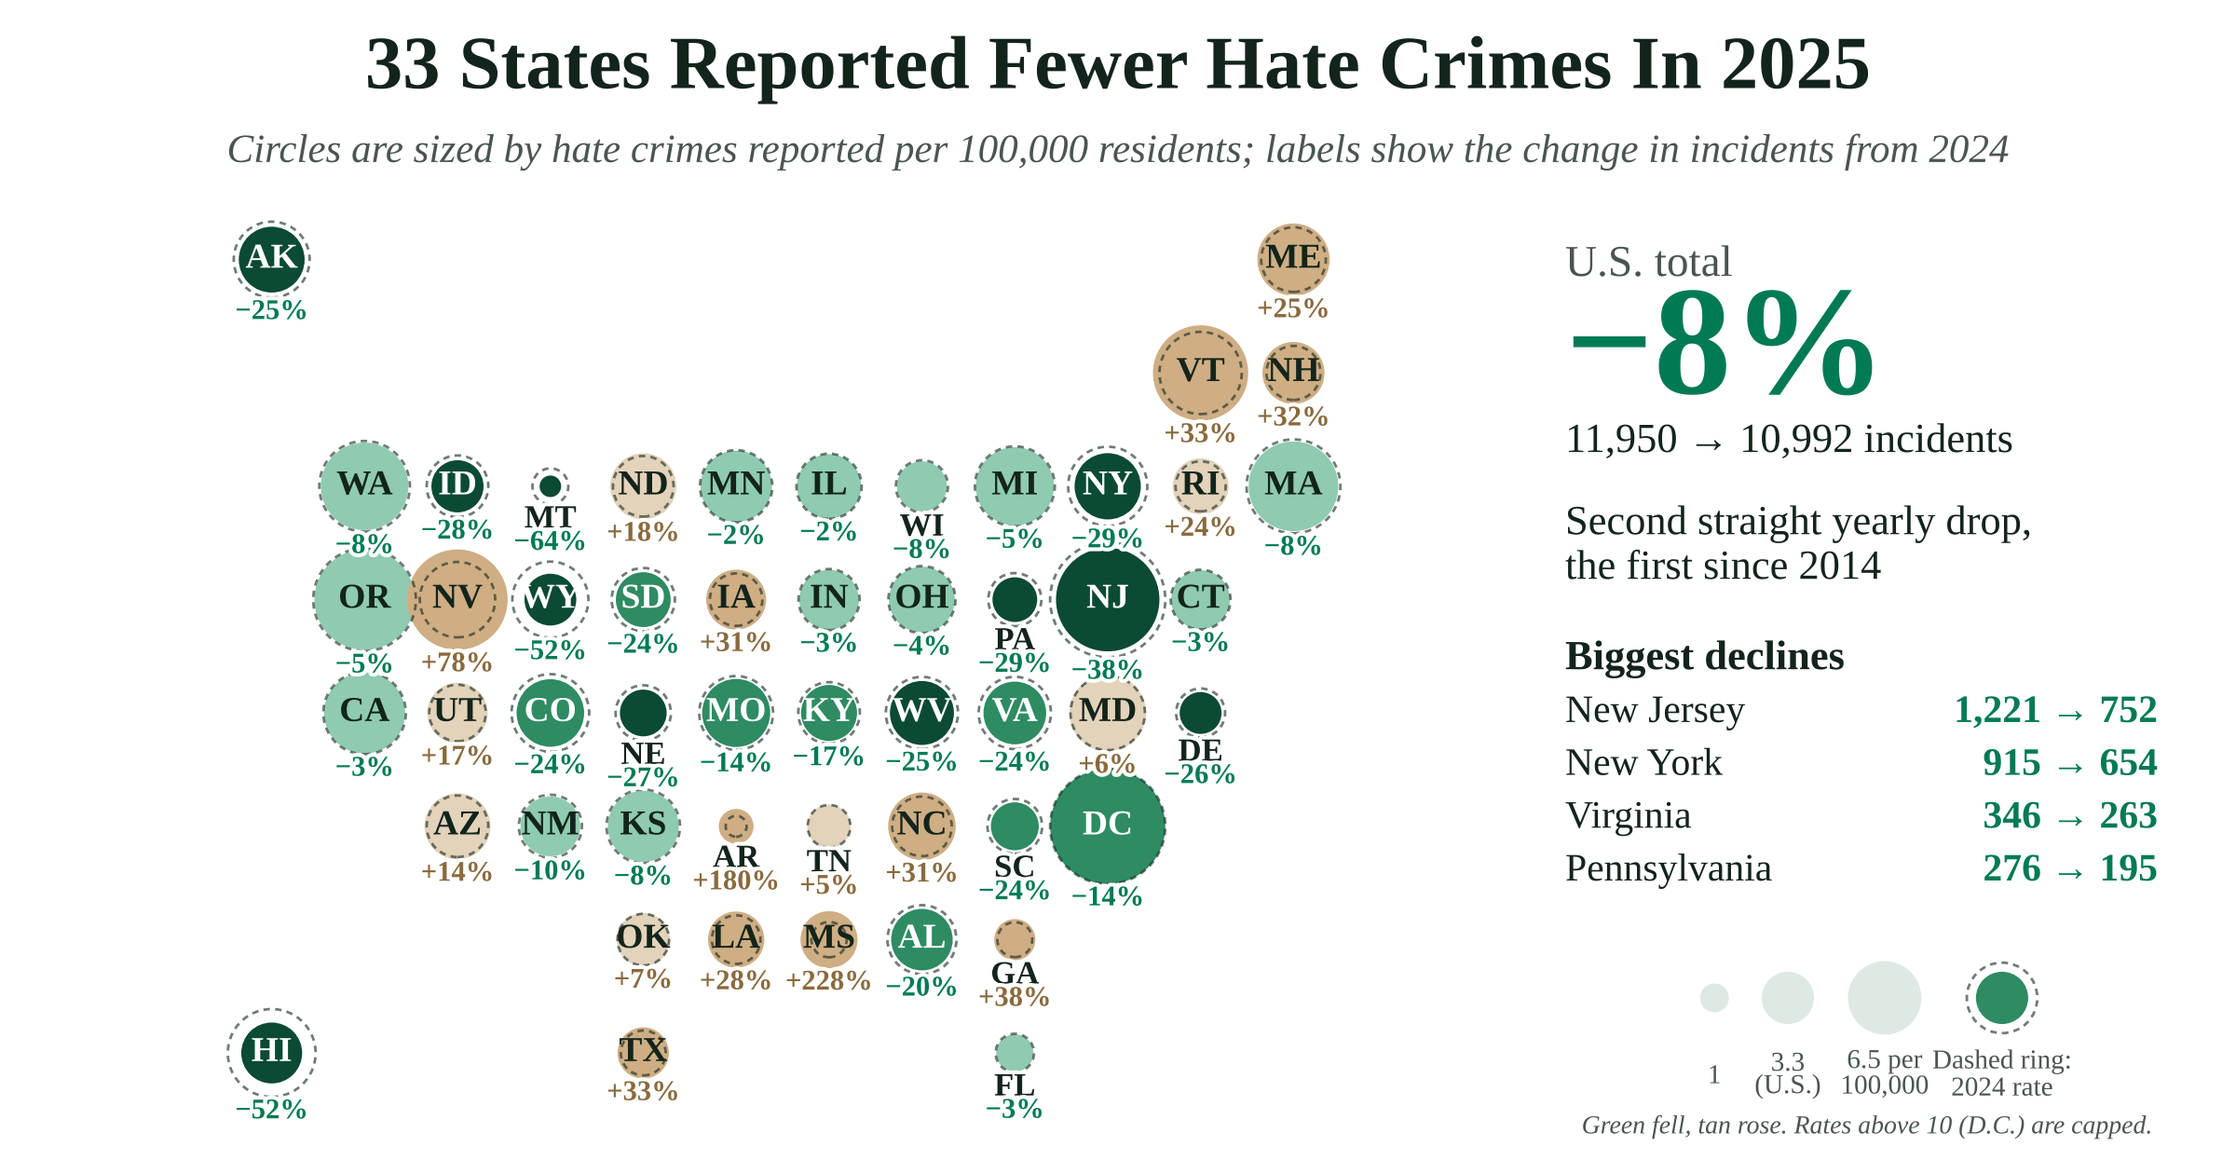
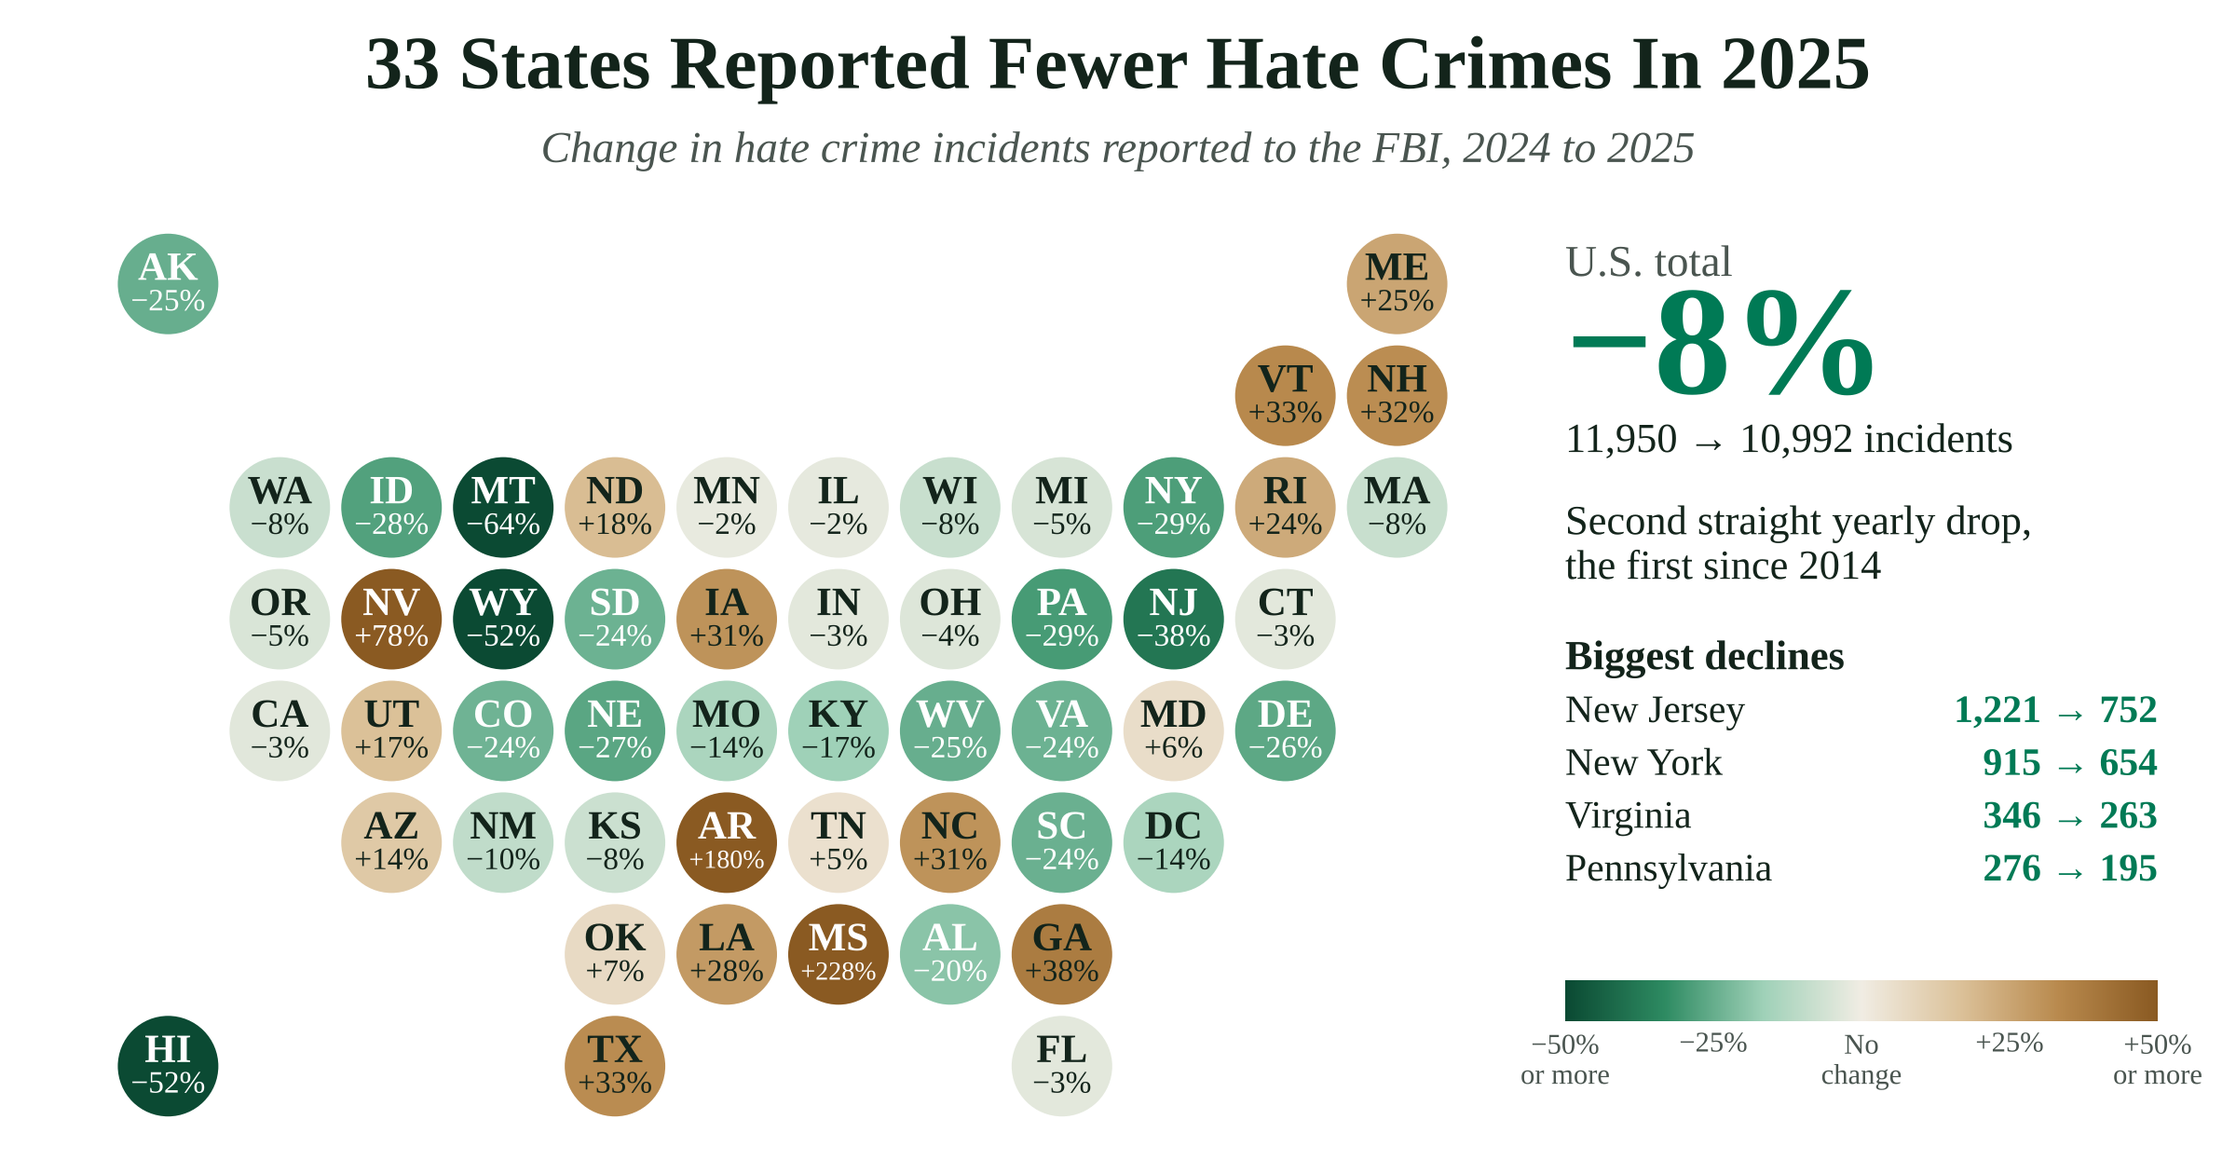
Hate map: uniform circles on one diverging color scale; tall article lead
Claude-Session: https://claude.ai/code/session_014ps2HoqtiaDX9KtWWc6m6n

diff --git a/hate/embed.js b/hate/embed.js
@@ -14,31 +14,29 @@ var css='#nid-hate-map{max-width:680px;margin:2.2em auto;font-family:Georgia,"Ti
 '#nid-hate-map .tg button{font:inherit;font-size:13px;padding:6px 14px;border-radius:999px;border:1px solid #cfd9d3;background:#fff;color:'+INK+';cursor:pointer}'+
 '#nid-hate-map .tg button.on{background:'+G+';border-color:'+G+';color:#fff}'+
 '#nid-hate-map svg{width:100%;height:auto;display:block;overflow:visible}'+
-'#nid-hate-map .s{cursor:pointer}#nid-hate-map .s .d{transition:r .9s cubic-bezier(.3,1.4,.5,1),fill .5s}'+
-'#nid-hate-map .s .rg{fill:none;stroke:'+INK+';stroke-opacity:.5;stroke-width:.012;stroke-dasharray:.035 .03}'+
-'#nid-hate-map .s.sel .rg,#nid-hate-map .s:hover .rg{stroke-opacity:1;stroke-width:.03;stroke-dasharray:none}'+
+'#nid-hate-map .s{cursor:pointer}#nid-hate-map .s .d{transition:fill 1s}'+
+'#nid-hate-map .s .rg{fill:none;stroke:'+INK+';stroke-opacity:0;stroke-width:.035}'+
+'#nid-hate-map .s.sel .rg,#nid-hate-map .s:hover .rg{stroke-opacity:1}'+
 '#nid-hate-map .s text{font-family:-apple-system,"Helvetica Neue",Arial,sans-serif;text-anchor:middle;pointer-events:none;letter-spacing:0!important;word-spacing:0!important}'+
-'#nid-hate-map .s .ab{font-size:.26px;font-weight:700;paint-order:stroke;stroke-linejoin:round}#nid-hate-map .s .vl{font-size:.2px;font-weight:700;paint-order:stroke;stroke:#fff;stroke-width:.06px;stroke-linejoin:round}'+
+'#nid-hate-map .s .ab{font-size:.26px;font-weight:700;paint-order:stroke;stroke-linejoin:round}#nid-hate-map .s .vl{font-size:.2px;font-weight:700;paint-order:stroke;}'+
 '#nid-hate-map .card{margin-top:10px;padding:14px 16px;border:1px solid #e3eee7;border-radius:10px;background:#f7faf8;min-height:92px}'+
 '#nid-hate-map .card h4{margin:0 0 6px;font-size:1.15em}#nid-hate-map .card .row{display:flex;flex-wrap:wrap;gap:18px;font-family:-apple-system,"Helvetica Neue",Arial,sans-serif;font-size:13px;color:'+SUB+'}'+
 '#nid-hate-map .card .row div b{display:block;font-family:Georgia,serif;font-size:22px;color:'+INK+'}'+
-'#nid-hate-map .lg{text-align:center;margin-top:4px;font-family:-apple-system,"Helvetica Neue",Arial,sans-serif;font-size:12px;color:'+SUB+'}'+
+'#nid-hate-map .lg{max-width:420px;margin:10px auto 0;font-family:-apple-system,"Helvetica Neue",Arial,sans-serif;font-size:11.5px;color:'+SUB+'}#nid-hate-map .lg i{display:block;height:12px;border-radius:3px;background:linear-gradient(90deg,#0b4a33,#2e8b62,#9fd1b8,#f1ede4,#dcc29a,#b98a4e,#8a5a22)}#nid-hate-map .lg div{display:flex;justify-content:space-between;margin-top:4px}'+
 '#nid-hate-map .nt{font-size:12px;color:'+SUB+';margin-top:8px;font-family:-apple-system,"Helvetica Neue",Arial,sans-serif}';
 var st=document.createElement('style');st.textContent=css;document.head.appendChild(st);
-b.innerHTML='<div class="hd"><b>Find your state</b><span>Circle size is the 2025 rate per 100,000 residents; the dashed ring is 2024. Tap a state.</span></div><svg viewBox="-0.2 -0.2 12.4 10.1"></svg><div class="lg"></div><div class="card"></div><div class="nt">Incidents reported by law enforcement agencies to the FBI. Rates use the population those agencies cover. Rates above 10 per 100,000 (Washington, D.C.) are drawn at a capped size. Big swings in small states can reflect a handful of incidents or changes in reporting.</div>';
+b.innerHTML='<div class="hd"><b>Find your state</b><span>Change in reported hate crimes, 2024 to 2025. Tap a state for its numbers.</span></div><svg viewBox="-0.05 -0.05 12.1 8.1"></svg><div class="lg"><i></i><div><span>\u221250% or more</span><span>\u221225%</span><span>No change</span><span>+25%</span><span>+50% or more</span></div></div><div class="card"></div><div class="nt">Incidents reported by law enforcement agencies to the FBI. Rates use the population those agencies cover. Big swings in small states can reflect a handful of incidents or changes in reporting.</div>';
 var svg=b.querySelector('svg'),card=b.querySelector('.card'),lg=b.querySelector('.lg'),mode='ch',sel=null,grown=false;
 function el(n,a,p){var e=document.createElementNS(NS,n);for(var k in a)e.setAttribute(k,a[k]);p.appendChild(e);return e}
-var N={},K=0.5/Math.sqrt(6.5),CAP=0.62;function rad(v){return Math.min(CAP,K*Math.sqrt(v))}
-S.slice().sort(function(a,c){return c[7]-a[7]}).forEach(function(s){var x=s[3]+0.5,y=s[2]*PY+0.5,rb=rad(s[10]);var g=el('g',{'class':'s'},svg);
-var d=el('circle',{'class':'d',cx:x,cy:y,r:rb},g);el('circle',{'class':'rg',cx:x,cy:y,r:rb},g);
-var ab=el('text',{'class':'ab',x:x,y:y+0.09},g);ab.textContent=s[0];var vl=el('text',{'class':'vl',x:x,y:y},g);
-N[s[0]]={g:g,d:d,ab:ab,vl:vl,y:y,rb:rb};
+var N={},R=0.45,ST=[[-50,[11,74,51]],[-33,[46,139,98]],[-17,[159,209,184]],[0,[241,237,228]],[17,[220,194,154]],[33,[185,138,78]],[50,[138,90,34]]];
+function dv(v){v=Math.max(-50,Math.min(50,v));for(var i=1;i<ST.length;i++){if(v<=ST[i][0]){var a=ST[i-1],c=ST[i],t=(v-a[0])/(c[0]-a[0]);return 'rgb('+[0,1,2].map(function(k){return Math.round(a[1][k]+(c[1][k]-a[1][k])*t)}).join(',')+')'}}return 'rgb(138,90,34)'}
+S.forEach(function(s){var x=s[3]+0.5,y=s[2]+0.5;var g=el('g',{'class':'s'},svg);
+var d=el('circle',{'class':'d',cx:x,cy:y,r:R,fill:'#f1ede4'},g);el('circle',{'class':'rg',cx:x,cy:y,r:R},g);
+var ab=el('text',{'class':'ab',x:x,y:y-0.03},g);ab.textContent=s[0];var vl=el('text',{'class':'vl',x:x,y:y+0.25},g);
+N[s[0]]={g:g,d:d,ab:ab,vl:vl};
 g.addEventListener('mouseenter',function(){show(s)});g.addEventListener('click',function(){if(sel)N[sel].g.classList.remove('sel');sel=s[0];g.classList.add('sel');show(s)});});
-function paint(){S.forEach(function(s){var n=N[s[0]],v=pct(s[5],s[6]),c=chCol(v),ra=rad(s[7]),r=grown?ra:n.rb,big=ra>=0.27,base=n.y+Math.max(ra,n.rb);
-n.vl.textContent=sg(v);n.vl.setAttribute('fill',v<0?G:'#8a6a3c');n.d.setAttribute('r',r);n.d.style.r=r+'px';n.d.setAttribute('fill',c);
-if(big){n.ab.setAttribute('y',n.y+0.09);n.ab.setAttribute('fill',v<=-10?'#fff':INK);n.ab.setAttribute('stroke','none');n.vl.setAttribute('y',base+0.24)}
-else{n.ab.setAttribute('y',base+0.27);n.ab.setAttribute('fill',INK);n.ab.setAttribute('stroke','#fff');n.ab.setAttribute('stroke-width','.07');n.vl.setAttribute('y',base+0.5)}});
-lg.textContent='Bigger circles mean more reported hate crimes per person. Green fell from 2024, tan rose. Labels show the change in incidents.'}
+function paint(){S.forEach(function(s){var n=N[s[0]],v=pct(s[5],s[6]),dk=grown&&(v<=-17||v>=38),t=sg(v);
+n.d.setAttribute('fill',grown?dv(v):'#f1ede4');n.vl.textContent=t;n.vl.style.fontSize=t.length>=5?'.17px':'.2px';n.ab.setAttribute('fill',dk?'#fff':INK);n.vl.setAttribute('fill',dk?'#fff':INK)});}
 function show(s){var v=pct(s[5],s[6]);card.innerHTML='<h4>'+s[1]+'</h4><div class="row"><div><b>'+fmt(s[6])+'</b>incidents in 2025</div><div><b style="color:'+(v<0?G:'#9a6f3a')+'">'+sg(v)+'</b>vs. 2024 ('+fmt(s[5])+')</div><div><b>'+s[7].toFixed(1)+'</b>per 100,000, was '+s[10].toFixed(1)+' (rank '+s[8]+' of 51)</div><div><b>'+fmt(s[4])+'</b>in 2015</div></div>'}
 paint();show(S.filter(function(s){return s[0]==='NJ'})[0]);
 function grow(){if(grown)return;grown=true;paint()}

diff --git a/hate/index.html b/hate/index.html
@@ -1,7 +1,7 @@
 <!doctype html><meta charset="utf-8"><meta name="viewport" content="width=device-width,initial-scale=1"><meta name="robots" content="noindex"><title>Hate (preview)</title><body style="max-width:760px;margin:0 auto;padding:16px;font-family:Georgia,serif;background:#fff"><style>.nid-a h2{margin:1.6em 0 .5em}.nid-a .nid-fig{margin:2.4em auto;max-width:620px}.nid-a .nid-fig img{width:100%;height:auto;display:block;border:1px solid #e6e3dd;border-radius:6px}.nid-a .nid-photo{max-width:520px}.nid-a .nid-fig figcaption{font-size:.82em;color:#5f7268;margin-top:.5em;line-height:1.4}.nid-a .nid-method{font-size:.92em;margin-top:2em}.nid-a .nid-fig.nid-wide{max-width:100%}.nid-a .nid-wide img{border-radius:8px}</style><div class="nid-a">
 <p>In December 2016 I published the second edition of "The State of Hate," ranking states, cities and college campuses by the hate crimes their police reported to the FBI. Ten years later I ran the numbers again, and the newest figures carry some good news. Police agencies reported 10,992 hate crime incidents in 2025, according to the FBI's Crime Data Explorer, 8% fewer than the 11,950 reported in 2024 and the second drop in a row.</p>
 <p>That makes it the first back-to-back decline since 2013 and 2014, and the 2025 total is 10% below the 2023 peak of 12,177. Thirty-three states reported fewer incidents than the year before, while 18 states reported more.</p>
-<figure class="nid-fig"><img src="./hate-lead.png?v=3" alt="Map of state circles sized by hate crimes reported per 100,000 residents in 2025, with rings for 2024 and labels for the change in incidents. 33 states reported fewer, led by New Jersey (down 38%) and New York (down 29%); the U.S. total fell 8%." width="2400" height="1260"></figure>
+<figure class="nid-fig"><img src="./hate-map-tall.png?v=1" alt="Map of state circles colored by the change in hate crimes reported to the FBI from 2024 to 2025. 33 states reported fewer, led by New Jersey (down 38%) and New York (down 29%); the U.S. total fell 8%." width="2160" height="2040"></figure>
 <h2>The long view is less rosy</h2>
 <p>The 2025 total is still nearly double the 5,843 incidents reported in 2015, the year my 2016 post covered. Part of that rise reflects more and better reporting rather than more hate. After 2020 the FBI moved every agency to a new, more detailed reporting system, and states whose police once reported almost nothing now report hundreds of incidents. Alabama went from 10 reported incidents in 2015 to 147 in 2025, Maryland from 41 to 277 and Illinois from 90 to 376.</p>
 <figure class="nid-fig"><img src="./hate-trend.png?v=1" alt="Stacked bar chart of hate crimes reported to the FBI each year, 2010 to 2025, by bias. Totals rose from 5,843 in 2015 to a peak of 12,177 in 2023, then fell to 10,992 in 2025." width="2160" height="1600"></figure>
@@ -23,4 +23,4 @@
 <figure class="nid-fig nid-photo nid-wide"><img src="https://upload.wikimedia.org/wikipedia/commons/thumb/b/bc/Dragon_Boat_Races_at_the_2025_World_Beat_Festival_on_June_28%2C_2025_during_a_multicultural_event_at_Riverfront_Park_in_Salem%2C_Oregon_-_3.jpg/1280px-Dragon_Boat_Races_at_the_2025_World_Beat_Festival_on_June_28%2C_2025_during_a_multicultural_event_at_Riverfront_Park_in_Salem%2C_Oregon_-_3.jpg" alt="Paddlers race dragon boats on the Willamette River during the World Beat Festival in Salem, Oregon" loading="lazy"><figcaption>Dragon boat races at the 2025 World Beat Festival, a multicultural celebration at Riverfront Park in Salem, Ore. Photo: <a href="https://commons.wikimedia.org/wiki/File:Dragon_Boat_Races_at_the_2025_World_Beat_Festival_on_June_28%2C_2025_during_a_multicultural_event_at_Riverfront_Park_in_Salem%2C_Oregon_-_3.jpg">Oregon National Guard</a>, <a href="https://creativecommons.org/licenses/by/4.0/">CC BY 4.0</a>, via Wikimedia Commons.</figcaption></figure>
 <p class="nid-method"><em>How we counted: Hate crime incidents by state, city and bias come from the FBI Crime Data Explorer (cde.ucr.cjis.gov), as refreshed Oct. 15, 2026, summing monthly incidents for each year. These totals run slightly higher than the FBI's printed annual report, which counted 10,881 incidents in 2025 and 11,679 in 2024, a 6.8% drop, because agencies keep submitting data after publication. State rates divide incidents by the residents covered by reporting agencies (the state population times the FBI's coverage percentage). City rates use the population the FBI lists for each police department; cities that didn't report all 12 months (New Orleans, Baton Rouge and Cape Coral) are left out. Bias categories count incidents with a single recorded bias; multiple-bias incidents are counted separately. The 2005–2019 victimization estimate is from the Bureau of Justice Statistics report "Hate Crime Victimization, 2005–2019" (NCJ 300954, September 2021). The marriage figures are from Gallup's July 2021 survey. Year-to-year changes in small states can reflect a handful of incidents or a change in how agencies report. <a href="https://cde.ucr.cjis.gov/LATEST/webapp/#/pages/explorer/crime/hate-crime">FBI Crime Data Explorer</a>. <a href="https://cde.ucr.cjis.gov/LATEST/resources/reports/UCR_Summary_of_Reported_Crimes_in_the_Nation_2025.pdf">FBI 2025 summary report</a>. <a href="https://bjs.ojp.gov/sites/g/files/xyckuh236/files/media/document/hcv0519_sum_3.pdf">BJS</a>. <a href="https://news.gallup.com/poll/354638/approval-interracial-marriage-new-high.aspx">Gallup</a>. <a href="https://www.thenewsindata.com/stories/the-state-of-hate">The State of Hate (2016)</a>. <a href="https://stories.thenewsindata.com/data/reported-hate-crimes-fell-for-a-second-straight-year-and-33-states-saw-declines-in-2025.csv">Download our data (CSV)</a>.</em></p>
 </div>
-<script src="./embed.js?v=4"></script>
+<script src="./embed.js?v=5"></script>

diff --git a/hate/post-body.html b/hate/post-body.html
@@ -1,7 +1,7 @@
 <style>.nid-a h2{margin:1.6em 0 .5em}.nid-a .nid-fig{margin:2.4em auto;max-width:620px}.nid-a .nid-fig img{width:100%;height:auto;display:block;border:1px solid #e6e3dd;border-radius:6px}.nid-a .nid-photo{max-width:520px}.nid-a .nid-fig figcaption{font-size:.82em;color:#5f7268;margin-top:.5em;line-height:1.4}.nid-a .nid-method{font-size:.92em;margin-top:2em}.nid-a .nid-fig.nid-wide{max-width:100%}.nid-a .nid-wide img{border-radius:8px}</style><div class="nid-a">
 <p>In December 2016 I published the second edition of "The State of Hate," ranking states, cities and college campuses by the hate crimes their police reported to the FBI. Ten years later I ran the numbers again, and the newest figures carry some good news. Police agencies reported 10,992 hate crime incidents in 2025, according to the FBI's Crime Data Explorer, 8% fewer than the 11,950 reported in 2024 and the second drop in a row.</p>
 <p>That makes it the first back-to-back decline since 2013 and 2014, and the 2025 total is 10% below the 2023 peak of 12,177. Thirty-three states reported fewer incidents than the year before, while 18 states reported more.</p>
-<figure class="nid-fig"><img src="https://stories.thenewsindata.com/hate/hate-lead.png?v=3" alt="Map of state circles sized by hate crimes reported per 100,000 residents in 2025, with rings for 2024 and labels for the change in incidents. 33 states reported fewer, led by New Jersey (down 38%) and New York (down 29%); the U.S. total fell 8%." width="2400" height="1260"></figure>
+<figure class="nid-fig"><img src="https://stories.thenewsindata.com/hate/hate-map-tall.png?v=1" alt="Map of state circles colored by the change in hate crimes reported to the FBI from 2024 to 2025. 33 states reported fewer, led by New Jersey (down 38%) and New York (down 29%); the U.S. total fell 8%." width="2160" height="2040"></figure>
 <h2>The long view is less rosy</h2>
 <p>The 2025 total is still nearly double the 5,843 incidents reported in 2015, the year my 2016 post covered. Part of that rise reflects more and better reporting rather than more hate. After 2020 the FBI moved every agency to a new, more detailed reporting system, and states whose police once reported almost nothing now report hundreds of incidents. Alabama went from 10 reported incidents in 2015 to 147 in 2025, Maryland from 41 to 277 and Illinois from 90 to 376.</p>
 <figure class="nid-fig"><img src="https://stories.thenewsindata.com/hate/hate-trend.png?v=1" alt="Stacked bar chart of hate crimes reported to the FBI each year, 2010 to 2025, by bias. Totals rose from 5,843 in 2015 to a peak of 12,177 in 2023, then fell to 10,992 in 2025." width="2160" height="1600"></figure>
@@ -23,4 +23,4 @@
 <figure class="nid-fig nid-photo nid-wide"><img src="https://upload.wikimedia.org/wikipedia/commons/thumb/b/bc/Dragon_Boat_Races_at_the_2025_World_Beat_Festival_on_June_28%2C_2025_during_a_multicultural_event_at_Riverfront_Park_in_Salem%2C_Oregon_-_3.jpg/1280px-Dragon_Boat_Races_at_the_2025_World_Beat_Festival_on_June_28%2C_2025_during_a_multicultural_event_at_Riverfront_Park_in_Salem%2C_Oregon_-_3.jpg" alt="Paddlers race dragon boats on the Willamette River during the World Beat Festival in Salem, Oregon" loading="lazy"><figcaption>Dragon boat races at the 2025 World Beat Festival, a multicultural celebration at Riverfront Park in Salem, Ore. Photo: <a href="https://commons.wikimedia.org/wiki/File:Dragon_Boat_Races_at_the_2025_World_Beat_Festival_on_June_28%2C_2025_during_a_multicultural_event_at_Riverfront_Park_in_Salem%2C_Oregon_-_3.jpg">Oregon National Guard</a>, <a href="https://creativecommons.org/licenses/by/4.0/">CC BY 4.0</a>, via Wikimedia Commons.</figcaption></figure>
 <p class="nid-method"><em>How we counted: Hate crime incidents by state, city and bias come from the FBI Crime Data Explorer (cde.ucr.cjis.gov), as refreshed Oct. 15, 2026, summing monthly incidents for each year. These totals run slightly higher than the FBI's printed annual report, which counted 10,881 incidents in 2025 and 11,679 in 2024, a 6.8% drop, because agencies keep submitting data after publication. State rates divide incidents by the residents covered by reporting agencies (the state population times the FBI's coverage percentage). City rates use the population the FBI lists for each police department; cities that didn't report all 12 months (New Orleans, Baton Rouge and Cape Coral) are left out. Bias categories count incidents with a single recorded bias; multiple-bias incidents are counted separately. The 2005–2019 victimization estimate is from the Bureau of Justice Statistics report "Hate Crime Victimization, 2005–2019" (NCJ 300954, September 2021). The marriage figures are from Gallup's July 2021 survey. Year-to-year changes in small states can reflect a handful of incidents or a change in how agencies report. <a href="https://cde.ucr.cjis.gov/LATEST/webapp/#/pages/explorer/crime/hate-crime">FBI Crime Data Explorer</a>. <a href="https://cde.ucr.cjis.gov/LATEST/resources/reports/UCR_Summary_of_Reported_Crimes_in_the_Nation_2025.pdf">FBI 2025 summary report</a>. <a href="https://bjs.ojp.gov/sites/g/files/xyckuh236/files/media/document/hcv0519_sum_3.pdf">BJS</a>. <a href="https://news.gallup.com/poll/354638/approval-interracial-marriage-new-high.aspx">Gallup</a>. <a href="https://www.thenewsindata.com/stories/the-state-of-hate">The State of Hate (2016)</a>. <a href="https://stories.thenewsindata.com/data/reported-hate-crimes-fell-for-a-second-straight-year-and-33-states-saw-declines-in-2025.csv">Download our data (CSV)</a>.</em></p>
 </div>
-<script src="https://stories.thenewsindata.com/hate/embed.js?v=4"></script>
+<script src="https://stories.thenewsindata.com/hate/embed.js?v=5"></script>
